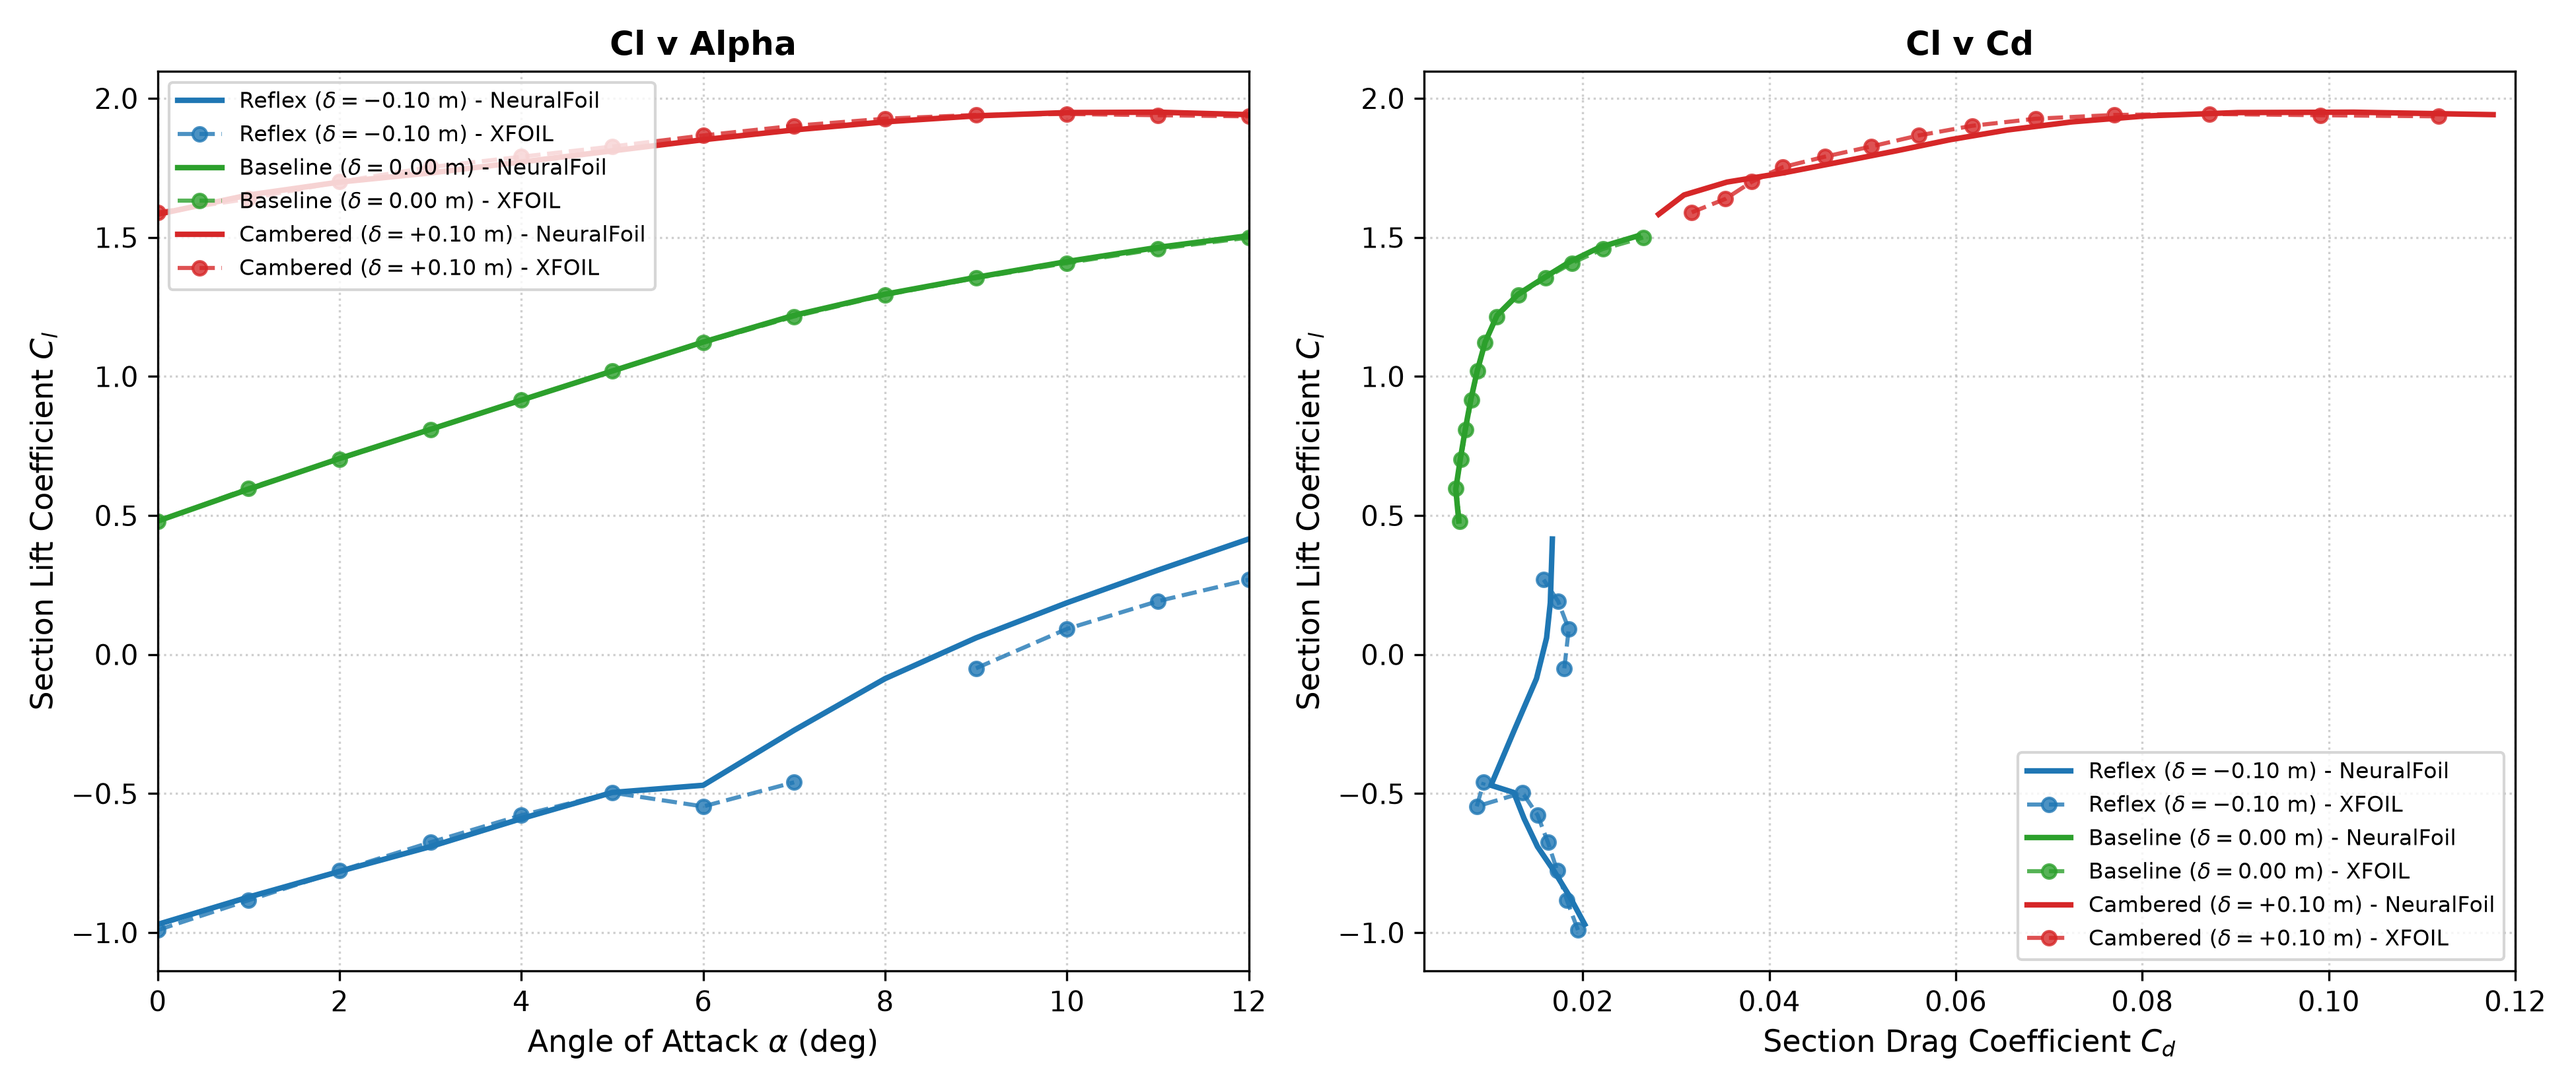
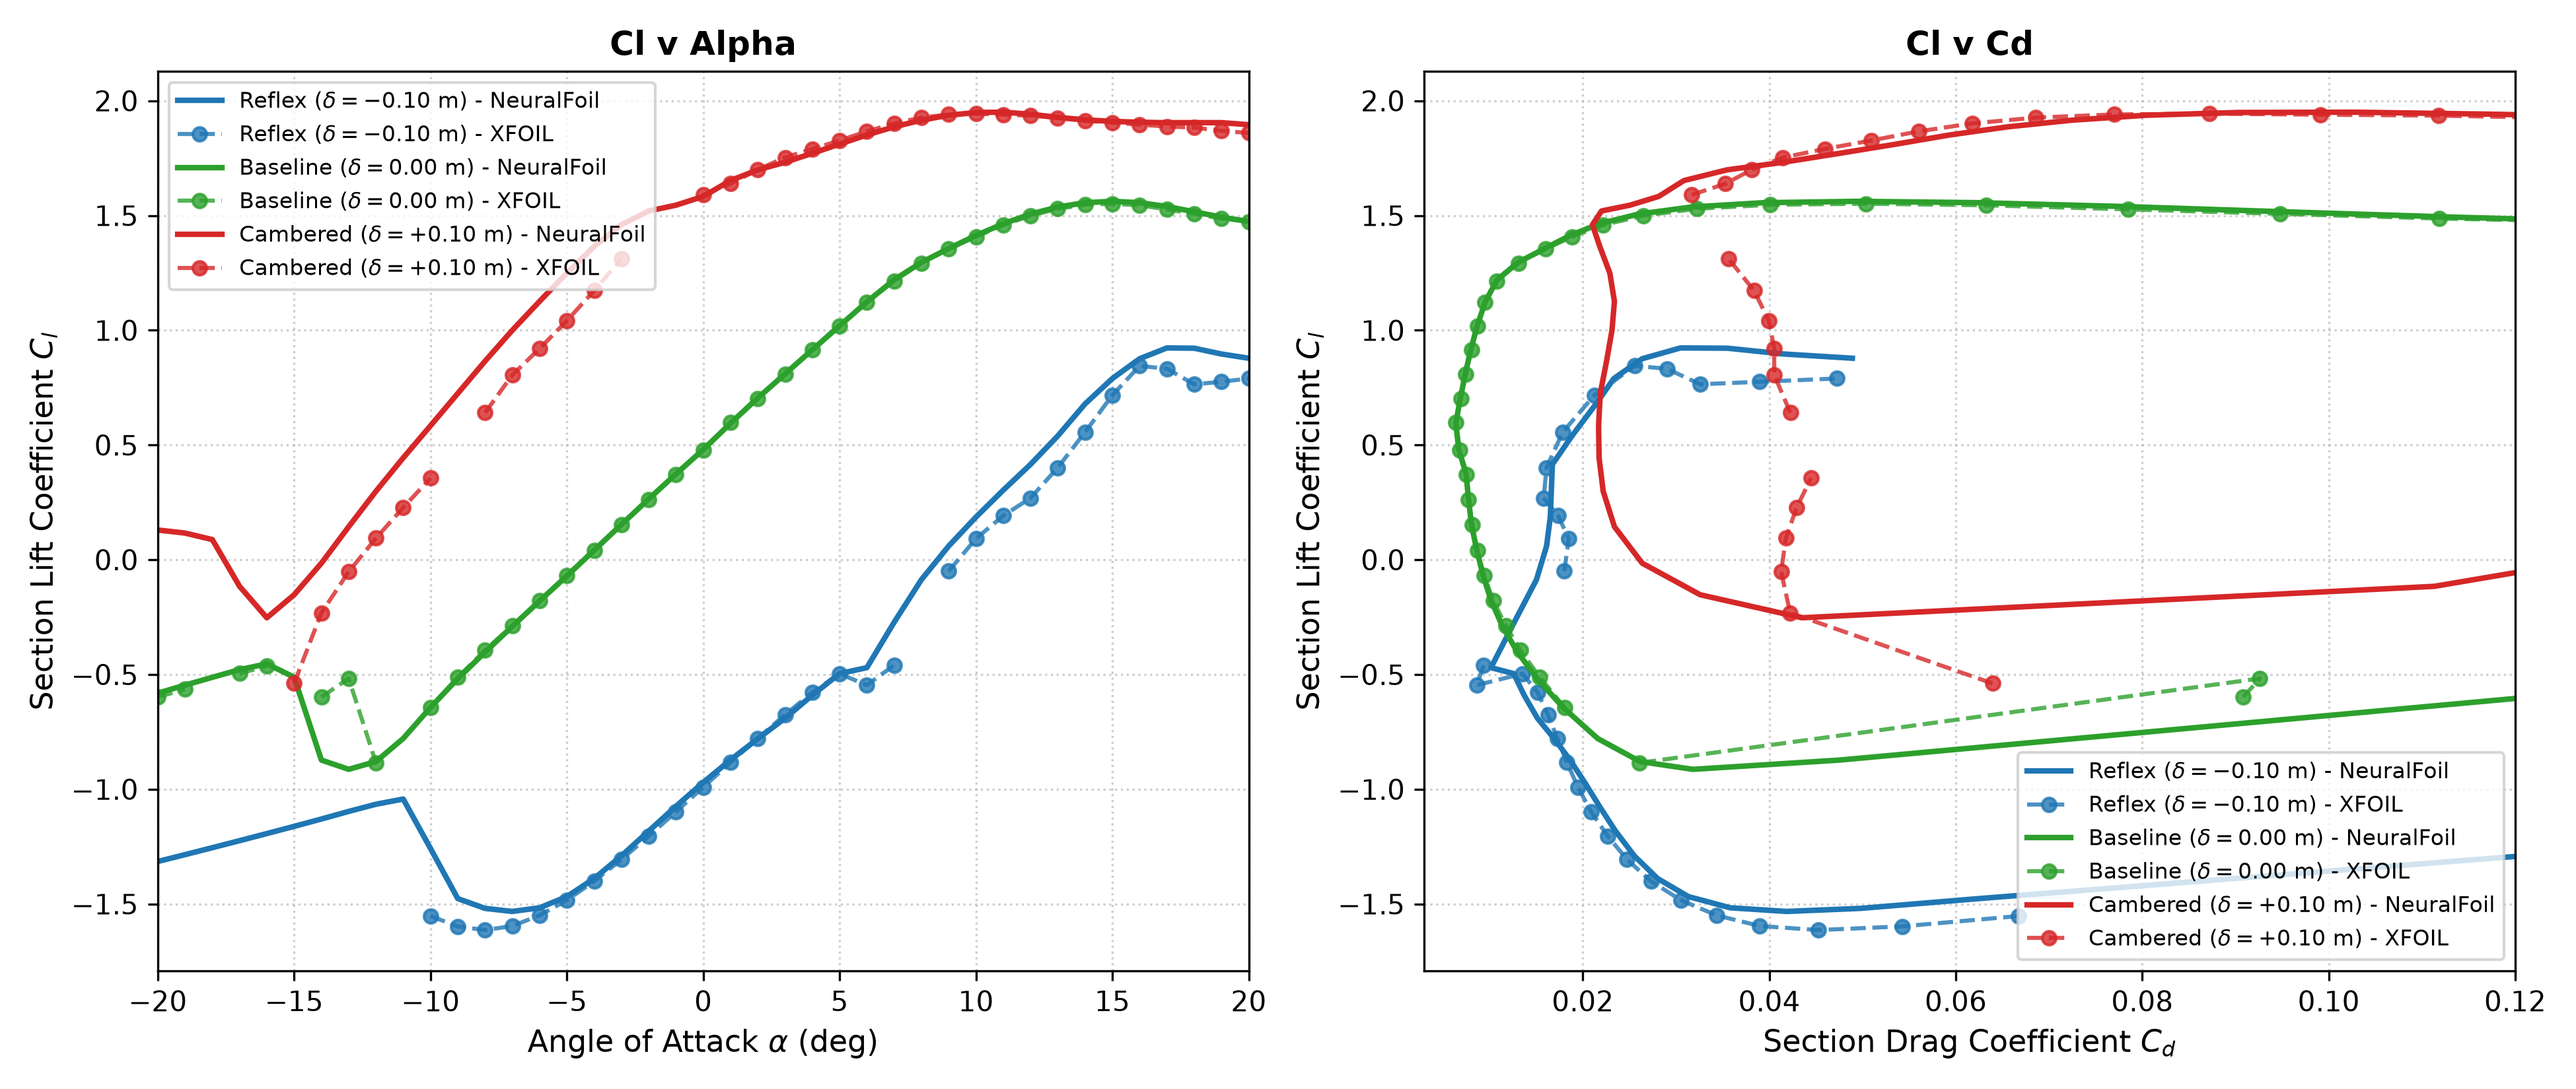
expanded the database to alpha = [-20, 20] . data matches expected trends and patterns. refer to logbook for a more in depth analysis

diff --git a/scripts/generate_surrogate_data.py b/scripts/generate_surrogate_data.py
@@ -1,13 +1,13 @@
 import numpy as np 
-import pandasa as pd 
-import erosandbox as asb
+import pandas as pd 
+import aerosandbox as asb
 import neuralfoil as nf 
 
 # 21 evenly spaced deflection values from -0.10 to 0.10 
 delta_range = np.linspace(-0.10, 0.10, 21)
 
 #integer angle of attack values
-alpha_range = np.linspace(0.0, 12.0, 13)
+alpha_range = np.linspace(-20.0, 20.0, 41)
 
 # flight parameters (c = 1.0 m)
 Re = 6.87e5
@@ -95,10 +95,10 @@ col_names = [f"alpha_{a}deg" for a in alpha_range]
 
 df_Cl = pd.DataFrame(Cl_matrix, index=delta_range, columns=col_names)
 df_Cl.index.name = "delta"
-df_Cl.to_csv("Cl_lookup_table.csv")
+df_Cl.to_csv("data/Cl_lookup_table.csv")
 
 df_Cd = pd.DataFrame(Cd_matrix, index=delta_range, columns=col_names)
 df_Cd.index.name = "delta"
-df_Cd.to_csv("Cd_lookup_table.csv")
+df_Cd.to_csv("data/Cd_lookup_table.csv")
 
 print("files 'Cl_lookup_table.csv' and 'Cd_lookup_table.csv' generated successfully.")

diff --git a/scripts/generate_xfoil_data.py b/scripts/generate_xfoil_data.py
@@ -7,7 +7,7 @@ import os
 delta_range = np.linspace(-0.10, 0.10, 21)
 
 #integer angle of attack values
-alpha_range = np.linspace(0, 12, 13)
+alpha_range = np.linspace(-20.0, 20.0, 41)
 
 # flight parameters (c = 1.0 m)
 Re = 6.87e5
@@ -116,11 +116,11 @@ for i, delta in enumerate(delta_range):
                 Cd_xfoil[i, col_id] = converged_cds[k]
 
     converged_count = np.sum(~np.isnan(Cl_xfoil[i, :]))
-    print(f"Ccmpleted delta = {delta:+.2f} m | converged: {converged_count}/{len(alpha_range)}")
+    print(f"Completed delta = {delta:+.2f} m | converged: {converged_count}/{len(alpha_range)}")
 
 # export results to CSV
 os.makedirs("data", exist_ok=True)
-col_names = [f"alpha_{int(a)}deg" for a in alpha_range]
+col_names = [f"alpha_{int(round(a))}deg" for a in alpha_range]
 
 df_cl = pd.DataFrame(Cl_xfoil, index=np.round(delta_range, 2), columns=col_names)
 df_cl.index.name = "delta"

diff --git a/scripts/plot_benchmarks.py b/scripts/plot_benchmarks.py
@@ -75,7 +75,7 @@ ax1.set_title("Cl v Alpha", fontsize=12, fontweight="bold")
 ax1.set_xlabel(r"Angle of Attack $\alpha$ (deg)", fontsize=11)
 ax1.set_ylabel(r"Section Lift Coefficient $C_l$", fontsize=11)
 ax1.grid(True, linestyle=":", alpha=0.6)
-ax1.set_xlim([0, 12])
+ax1.set_xlim([-20, 20])
 ax1.legend(fontsize=8, loc="upper left")
 
 # Formatting Right Plot: Drag Polar (Cl vs Cd)

diff --git a/scripts/solve_spanwise_morphing.py b/scripts/solve_spanwise_morphing.py
@@ -11,7 +11,7 @@ Cl = 0.50 # desired lift coefficient; varies depending on the flight regime (0.5
 def generated_morphed_naca4412(n_points=101):
 # establishes span stations with cosine distribution for N = 101 points
     beta = np.linspace(0, np.pi, n_points)
-    x = (1-np.cos(beta)) / 2 
+    x = (1 - np.cos(beta)) / 2 
     np.clip(x,0,1)
 
 def calculate_circulation(): 
